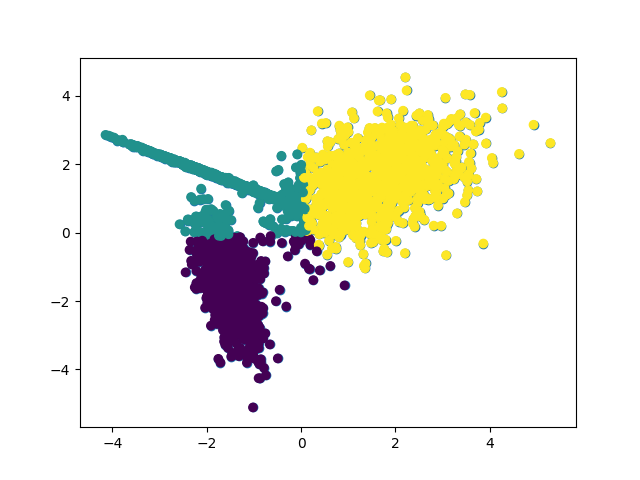
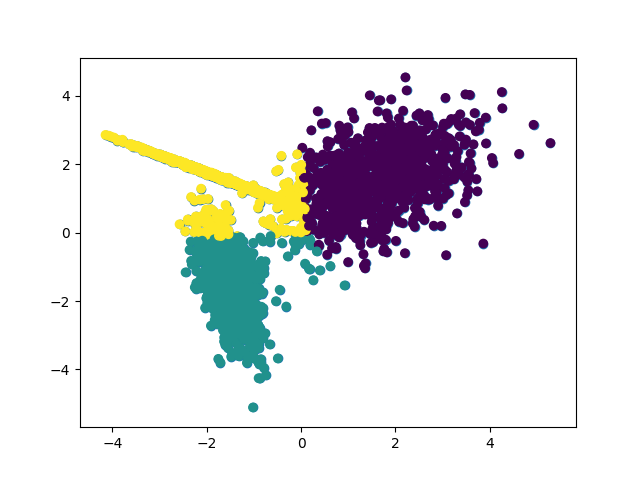
try gmm

diff --git a/run_gmm.py b/run_gmm.py
@@ -2,6 +2,8 @@ import pandas as pd
 import matplotlib.pyplot as plt
 
 from sklearn.cluster import KMeans
+from sklearn.mixture import GaussianMixture
+
 
 dataset = pd.read_csv("dataset.csv"
 					,header=None)
@@ -14,4 +16,9 @@ plt.savefig("scatter.png")
 kmeans_predictions = KMeans(n_clusters=3).fit_predict(dataset)
 plt.scatter(dataset[0],dataset[1], c=kmeans_predictions)
 plt.savefig("scatter_kmean3.png")
+
+gaussian_predictions = GaussianMixture(n_components=3).fit(dataset).predict(dataset)
+plt.scatter(dataset[0],dataset[1], c=gaussian_predictions)
+plt.savefig("scatter_gaussian3.png")
+
 
